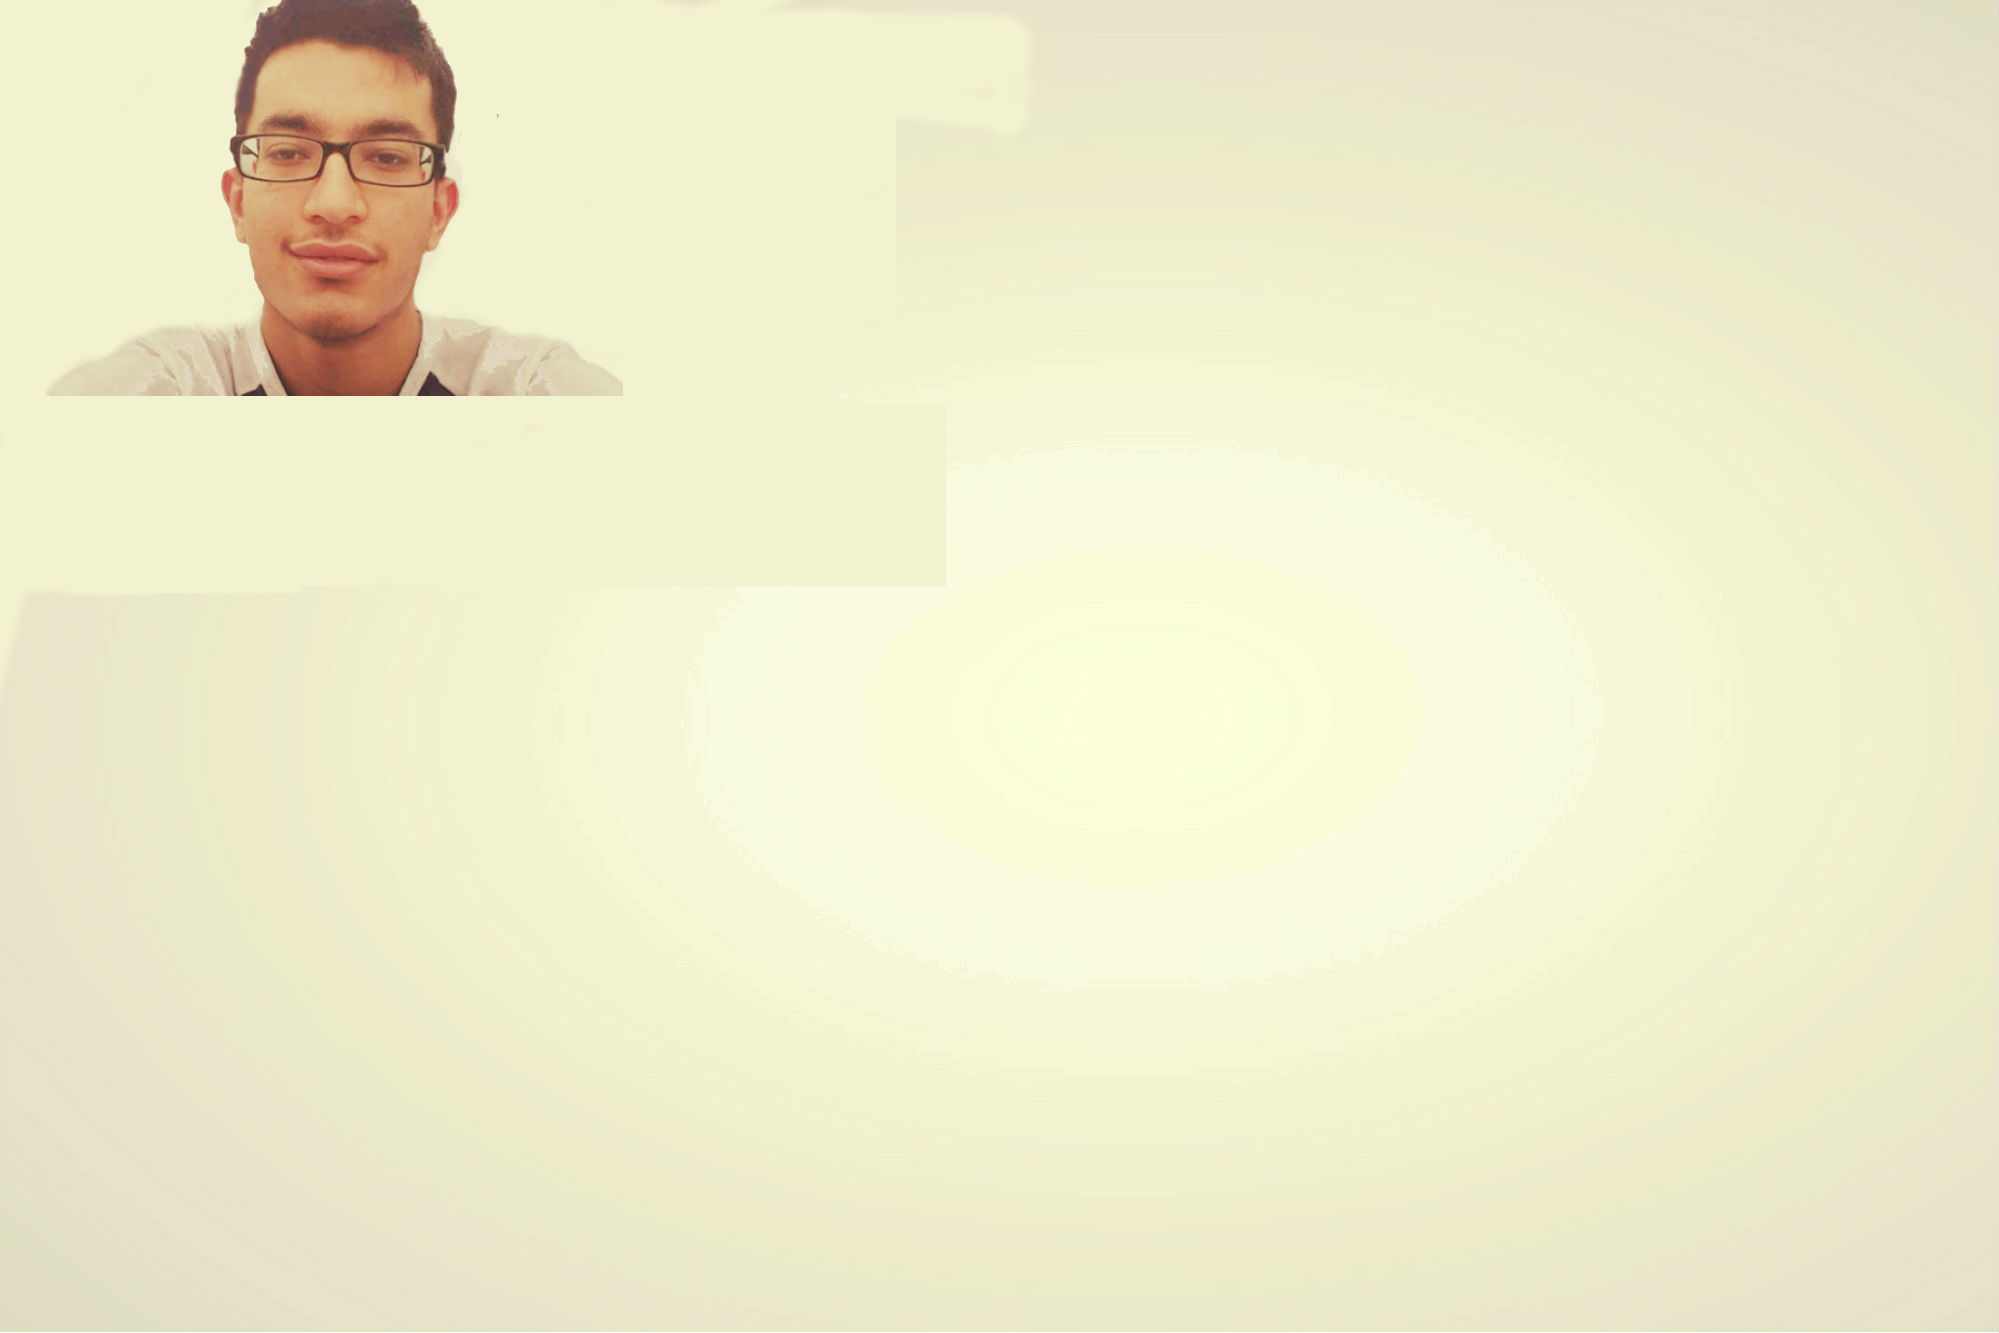
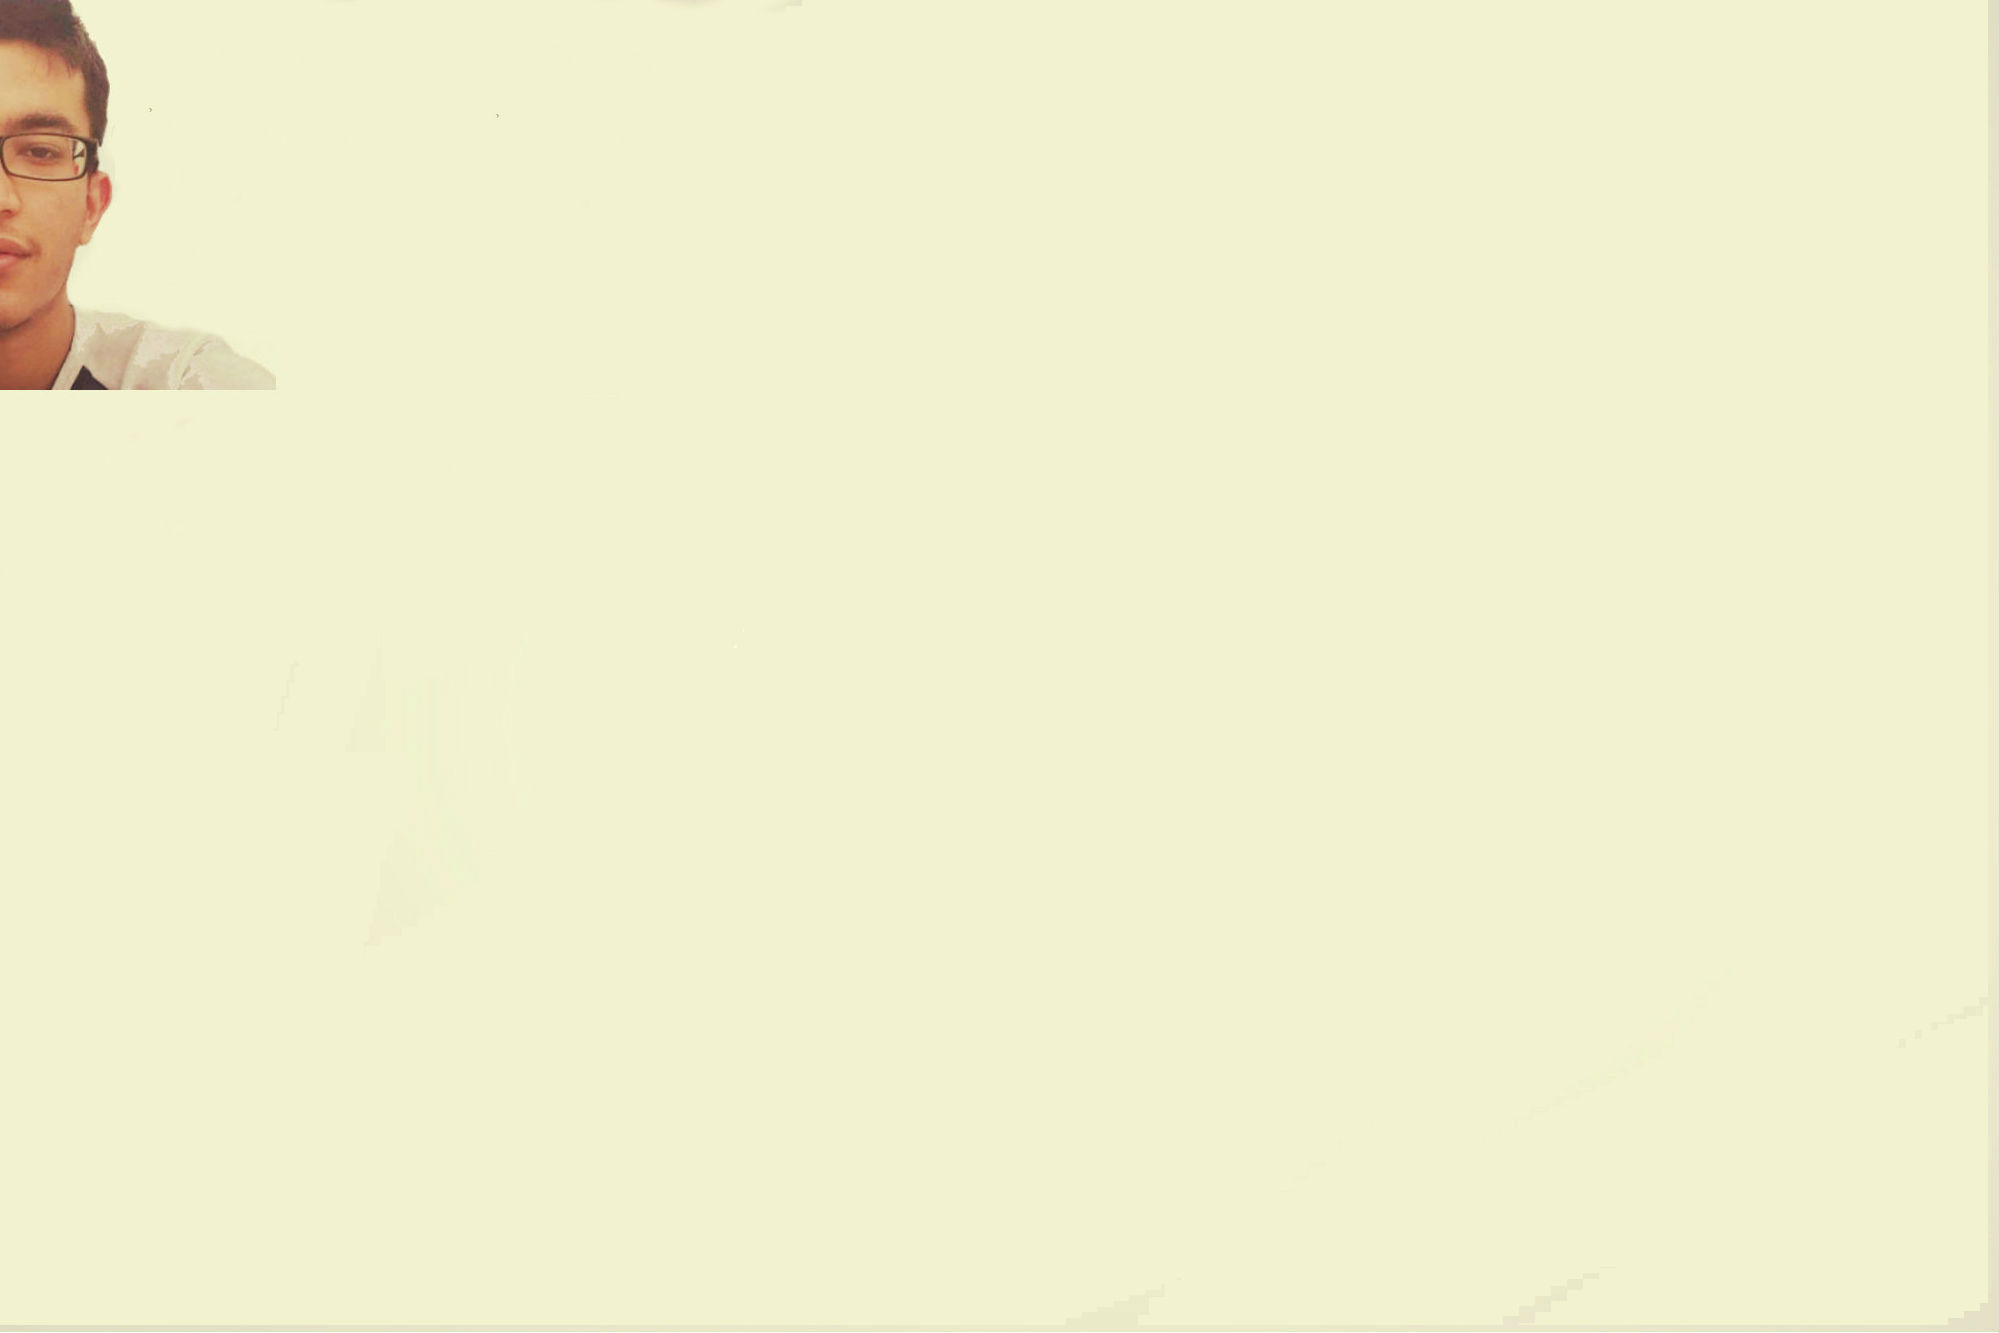
Responsive on tablets

Changed region(s): [[0.0, 0.0, 0.3102, 0.3076]]

diff --git a/css/custom.css b/css/custom.css
@@ -98,6 +98,8 @@ ul li a i {
     padding-top: 15%;
     transition: all 0.2s ease-in-out;
 }
+
+.btn2
 .fa-linkedin {
     background:#007bb6;
 }
@@ -173,18 +175,23 @@ opacity:0.8;
 
 @media (max-width: 767px) { 
 
+footer .container h1 {
+  font-size:32px;
+}
 
-  .jumbotron {
+.jumbotron {
     background-image: url('../images/me-mobile.jpg');
-    text-align: left;
-    color: black;
-    font-size: 19px;
   }
 
 .jumbotron h1 {
-    font-size: 19px;
+    margin-left: 65px;
+    text-align: center;
+    font-size: 22px;
   }
 
+.btn2 {
+  margin-bottom:5px;
+}
 
 .homepage h2 {
     font-size: 30px;
@@ -199,9 +206,8 @@ opacity:0.8;
   }
 
   ul {
+    margin-right:10px;
     overflow: auto;
-    float:left;
-
 }
  
   ul li {
@@ -210,18 +216,27 @@ opacity:0.8;
 }
  
 ul li a i {
-  text-align:left;
-    background: #205D7A;
-    color: #fff;
-    width: 30px;
-    height: 30px;
-    border-radius: 8px;
-    font-size: 20px;
+    text-align:right;
+    width: 40px;
+    height: 40px;
+    border-radius: 10px;
+    font-size: 30px;
     text-align: center;
-    margin-right: 6px;
-    padding-top: 15%;
-    transition: all 0.2s ease-in-out;
+    margin-right: 10px;
 }
 
 }
 
+@media (max-width: 991px) { 
+
+.jumbotron {
+    background-image: url('../images/me-tablet.jpg');
+  }
+
+}
+
+@media (max-width: 1199px) { 
+.jumbotron {
+    background-image: url('../images/me-tablet-big.jpg');
+  }
+}
